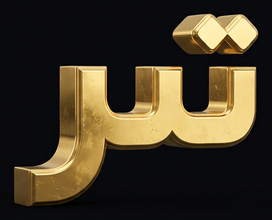
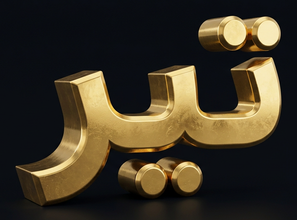
Add remaining 3D gold month letters and fix تیر (v135)

diff --git a/index.html b/index.html
@@ -19,7 +19,7 @@
 <link rel="preload" href="fonts/IranNastaliq.woff2" as="font" type="font/woff2" crossorigin>
 <script>
 (function () {
-  var V = "v134";
+  var V = "v135";
   try {
     if (localStorage.getItem("patoghNuke") === V) return;
     localStorage.setItem("patoghNuke", V);
@@ -51,7 +51,7 @@
   }).then(reload, reload);
 })();
 </script>
-<link rel="stylesheet" href="css/style.css?v=134">
+<link rel="stylesheet" href="css/style.css?v=135">
 <link rel="stylesheet" href="css/login.css">
 <style id="rankPodiumFix"></style>
 </head>
@@ -379,7 +379,7 @@
 <div id="modalBg" class="modalbg"></div>
 <div id="toast" class="toast" role="status" aria-live="polite" aria-atomic="true"></div>
 <script src="js/config.js"></script>
-<script src="js/app.js?v=134"></script>
+<script src="js/app.js?v=135"></script>
 <div id="offlineBar" style="display:none;position:fixed;bottom:0;left:0;right:0;background:#7a5f1a;color:#fff;padding:8px 12px;z-index:99999;text-align:center;font-size:13px;cursor:pointer">🔌 حالت محلی — سرور در دسترس نیست. برای تلاش مجدد اینجا را لمس کن</div>
 <script src="js/local-mode.js"></script>
 <!-- بارگذاری از CDN رسمی، همراه با fallback از CDNهای جایگزین -->

diff --git a/js/app.js b/js/app.js
@@ -1833,8 +1833,14 @@
       "تیر": "img/ranking/gold3d/tir.png",
       "مرداد": "img/ranking/gold3d/mordad.png",
       "شهریور": "img/ranking/gold3d/shahrivar.png",
+      "مهر": "img/ranking/gold3d/mehr.png",
       "آبان": "img/ranking/gold3d/aban.png",
+      "آذر": "img/ranking/gold3d/azar.png",
+      "دی": "img/ranking/gold3d/dey.png",
+      "بهمن": "img/ranking/gold3d/bahman.png",
+      "اسفند": "img/ranking/gold3d/esfand.png",
       "۱۴۰۴": "img/ranking/gold3d/y1404.png",
+      "۱۴۰۵": "img/ranking/gold3d/y1405.png",
     };
     function gold3dImg(key, alt, extra) {
       var src = GOLD3D[key];

diff --git a/service-worker.js b/service-worker.js
@@ -2,7 +2,7 @@
    - صفحه و کدهای برنامه (html/js/css): اول شبکه (با timeout)، اگه نشد از کش.
      اینطوری نسخهی جدید با اولین رفرش دیده میشه.
    - فونت، آیکون و supabase.js: اول کش، پشتصحنه تازه میشن. */
-var VERSION = 'v134';
+var VERSION = 'v135';
 var CACHE = 'patogh-' + VERSION;
 var CORE = [
   './',
